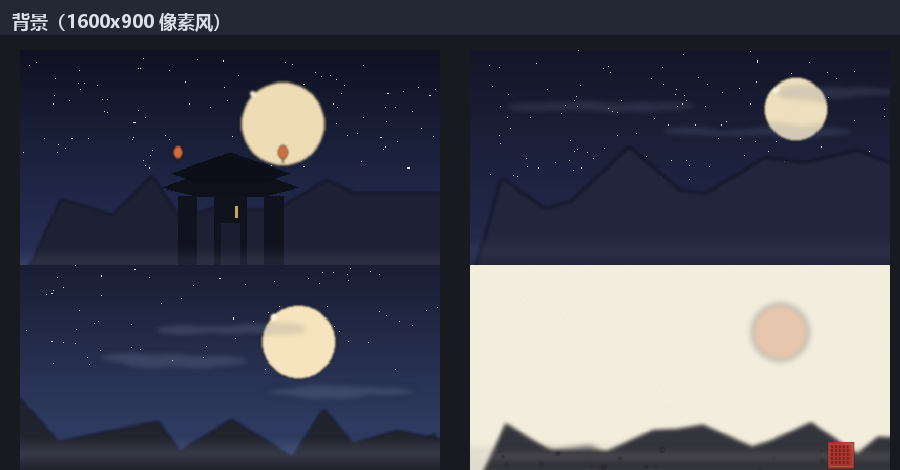
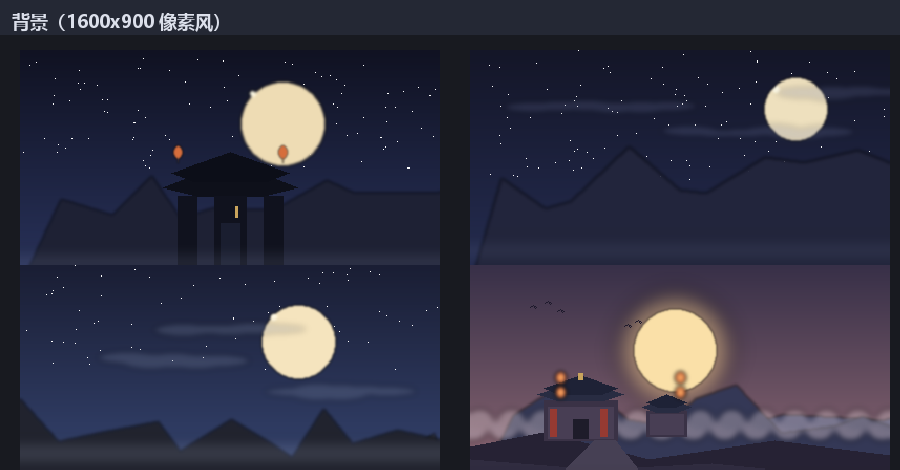
feat: demo polish - card hover detail, continue-button state, map passed dimming, turn/battle-type/hub progress display

Changed region(s): [[0.4978, 0.566, 0.9956, 1.0]]

diff --git a/Assets/Scripts/UI/GameFlow.cs b/Assets/Scripts/UI/GameFlow.cs
@@ -21,6 +21,7 @@ namespace Xianmen
         private GameObject _victoryRoot;
         private GameObject _defeatRoot;
         private GameObject _deckRoot;
+        private GameObject _cardDetailRoot;
         private Text _mapStatus;
         private Text _enemyStatus;
         private Text _playerStatus;
@@ -33,6 +34,9 @@ namespace Xianmen
         private Text _eventText;
         private Text _victoryText;
         private Text _defeatText;
+        private Text _battleTitle;
+        private Text _cardDetailTitle;
+        private Text _cardDetailDesc;
         private Transform _handRoot;
         private Transform _rewardCardRoot;
         private Transform _shopCardRoot;
@@ -42,6 +46,7 @@ namespace Xianmen
         private Button _endTurnButton;
         private Button _battleContinueButton;
         private Button _claimRelicButton;
+        private Button _continueButton;
         private Image _enemyImage;
         private readonly List<Button> _handButtons = new List<Button>();
         private readonly List<Button> _rewardButtons = new List<Button>();
@@ -91,6 +96,7 @@ namespace Xianmen
             BuildEventPanel();
             BuildEndPanels();
             BuildDeckPanel();
+            BuildCardDetailPanel();
             ShowMenu();
         }
 
@@ -125,8 +131,10 @@ namespace Xianmen
             _menuRoot = CreateVerticalPanel("MenuRoot", _canvas.transform);
             var title = CreateText("仙门问道", 72, _menuRoot.transform);
             title.rectTransform.sizeDelta = new Vector2(500, 120);
+            var subtitle = CreateText("一人一宗，对抗漫天魔气 · Demo", 22, _menuRoot.transform);
+            subtitle.rectTransform.sizeDelta = new Vector2(500, 40);
             CreateButton("开始游戏", _menuRoot.transform, OnStartPressed);
-            CreateButton("继续", _menuRoot.transform, OnContinuePressed);
+            _continueButton = CreateButton("继续", _menuRoot.transform, OnContinuePressed);
             CreateButton("退出", _menuRoot.transform, OnQuitPressed);
         }
 
@@ -172,8 +180,8 @@ namespace Xianmen
         private void BuildBattlePanel()
         {
             _battleRoot = CreateVerticalPanel("BattleRoot", _canvas.transform, 1320, 920);
-            var title = CreateText("战斗", 48, _battleRoot.transform);
-            title.rectTransform.sizeDelta = new Vector2(500, 80);
+            _battleTitle = CreateText("战斗", 48, _battleRoot.transform);
+            _battleTitle.rectTransform.sizeDelta = new Vector2(500, 80);
             var enemyGo = new GameObject("EnemyImage", typeof(RectTransform), typeof(Image));
             enemyGo.transform.SetParent(_battleRoot.transform, false);
             _enemyImage = enemyGo.GetComponent<Image>();
@@ -335,6 +343,31 @@ namespace Xianmen
             _deckRoot.SetActive(false);
         }
 
+        private void BuildCardDetailPanel()
+        {
+            _cardDetailRoot = new GameObject("CardDetail", typeof(RectTransform), typeof(Image), typeof(VerticalLayoutGroup));
+            _cardDetailRoot.transform.SetParent(_canvas.transform, false);
+            var rect = _cardDetailRoot.GetComponent<RectTransform>();
+            rect.anchorMin = new Vector2(1f, 0.5f);
+            rect.anchorMax = new Vector2(1f, 0.5f);
+            rect.pivot = new Vector2(1f, 0.5f);
+            rect.anchoredPosition = new Vector2(-30, 0);
+            rect.sizeDelta = new Vector2(380, 320);
+            var image = _cardDetailRoot.GetComponent<Image>();
+            image.color = new Color(0.08f, 0.1f, 0.14f, 0.95f);
+            var layout = _cardDetailRoot.GetComponent<VerticalLayoutGroup>();
+            layout.childAlignment = TextAnchor.UpperCenter;
+            layout.childControlWidth = true;
+            layout.childControlHeight = false;
+            layout.spacing = 10;
+            layout.padding = new RectOffset(16, 16, 16, 16);
+            _cardDetailTitle = CreateText("", 28, _cardDetailRoot.transform);
+            _cardDetailTitle.alignment = TextAnchor.MiddleCenter;
+            _cardDetailDesc = CreateText("", 19, _cardDetailRoot.transform);
+            _cardDetailDesc.alignment = TextAnchor.UpperLeft;
+            _cardDetailRoot.SetActive(false);
+        }
+
         private GameObject CreateVerticalPanel(string name, Transform parent, float width = 520, float height = 480)
         {
             var go = new GameObject(name, typeof(RectTransform), typeof(VerticalLayoutGroup));
@@ -388,6 +421,10 @@ namespace Xianmen
         {
             HideAllPanels();
             if (_menuRoot != null) _menuRoot.SetActive(true);
+            if (_continueButton != null)
+            {
+                _continueButton.interactable = GameState.HasSave();
+            }
         }
 
         private void ShowMap()
@@ -405,6 +442,7 @@ namespace Xianmen
                 var node = GameState.MapNodes[i];
                 var image = _mapNodeImages[i];
                 var sprite = SpriteLibrary.Node(node.type);
+                var passed = i < GameState.CurrentNodeIndex;
                 if (sprite != null)
                 {
                     image.sprite = sprite;
@@ -418,6 +456,12 @@ namespace Xianmen
                     image.color = i == GameState.CurrentNodeIndex
                         ? new Color(1f, 0.85f, 0.3f, 1f)
                         : NodeColor(node.type);
+                }
+                if (passed)
+                {
+                    var dimmed = image.color;
+                    dimmed.a = 0.45f;
+                    image.color = dimmed;
                 }
             }
             var current = GameState.CurrentNode;
@@ -472,6 +516,7 @@ namespace Xianmen
             if (_eventRoot != null) _eventRoot.SetActive(false);
             if (_victoryRoot != null) _victoryRoot.SetActive(false);
             if (_defeatRoot != null) _defeatRoot.SetActive(false);
+            if (_cardDetailRoot != null) _cardDetailRoot.SetActive(false);
         }
 
         private void OnStartPressed()
@@ -517,6 +562,10 @@ namespace Xianmen
         {
             var node = GameState.CurrentNode;
             if (node == null) return;
+            if (_battleTitle != null)
+            {
+                _battleTitle.text = node.type == "elite" ? "精英战" : (node.type == "boss" ? "Boss 战" : "战斗");
+            }
             var enemyId = PickEnemyId(node.type);
             var enemy = DataLoader.GetEnemy(enemyId);
             if (enemy == null)
@@ -564,13 +613,14 @@ namespace Xianmen
                 FormatBuffs(_battleState.Enemy)
             );
             _playerStatus.text = string.Format(
-                "掌门\nHP {0}/{1}  罡气 {2}  灵力 {3}\n牌库 {4}  弃牌 {5}{6}",
+                "掌门 · 回合 {6}\nHP {0}/{1}  罡气 {2}  灵力 {3}\n牌库 {4}  弃牌 {5}{7}",
                 Mathf.Max(0, _battleState.Player.CurrentHp),
                 _battleState.Player.MaxHp,
                 _battleState.Player.Block,
                 _battleState.Energy,
                 _battleState.DrawPile.Count,
                 _battleState.DiscardPile.Count,
+                _battleState.TurnCount,
                 FormatBuffs(_battleState.Player)
             );
             RebuildHand();
@@ -613,8 +663,45 @@ namespace Xianmen
                 text.fontSize = 17;
                 text.alignment = TextAnchor.MiddleCenter;
                 ApplyCardIcon(button, GameState.BaseCardId(entry));
+                WireHover(button, card, upgraded);
                 _handButtons.Add(button);
             }
+        }
+
+        private void WireHover(Button button, CardData card, bool upgraded, string extra = "")
+        {
+            var trigger = button.gameObject.GetComponent<EventTrigger>();
+            if (trigger == null)
+            {
+                trigger = button.gameObject.AddComponent<EventTrigger>();
+            }
+            var enter = new EventTrigger.Entry { eventID = EventTriggerType.PointerEnter };
+            enter.callback.AddListener(_ => ShowCardDetail(card, upgraded, extra));
+            var exit = new EventTrigger.Entry { eventID = EventTriggerType.PointerExit };
+            exit.callback.AddListener(_ => HideCardDetail());
+            trigger.triggers.Add(enter);
+            trigger.triggers.Add(exit);
+        }
+
+        private void ShowCardDetail(CardData card, bool upgraded, string extra)
+        {
+            if (card == null || _cardDetailRoot == null) return;
+            _cardDetailTitle.text = string.Format(
+                "{0}（{1}费 · {2}）{3}",
+                card.name,
+                card.cost,
+                RarityName(card.rarity),
+                upgraded ? " ✦已祭炼" : ""
+            );
+            _cardDetailDesc.text = (extra.Length > 0 ? extra + "\n\n" : "")
+                + (upgraded ? card.desc_up : card.desc)
+                + "\n\n" + card.flavor;
+            _cardDetailRoot.SetActive(true);
+        }
+
+        private void HideCardDetail()
+        {
+            if (_cardDetailRoot != null) _cardDetailRoot.SetActive(false);
         }
 
         private void ApplyCardIcon(Button button, string cardId)
@@ -721,6 +808,7 @@ namespace Xianmen
                 var label = card != null ? string.Format("{0}（{1}）", card.name, RarityName(card.rarity)) : "?";
                 var button = CreateButton(label, _rewardCardRoot, () => OnRewardCardPressed(index));
                 ApplyCardIcon(button, _pendingCardOffers[index]);
+                WireHover(button, card, false);
                 _rewardButtons.Add(button);
             }
         }
@@ -814,11 +902,12 @@ namespace Xianmen
         private void RefreshHubStatus()
         {
             _hubStatus.text = string.Format(
-                "灵石 {0}  药材 {1}  生命 {2}/{3}",
+                "灵石 {0}  药材 {1}  生命 {2}/{3}\n已走完节点 {4} / 20",
                 GameState.SpiritStone,
                 GameState.Herb,
                 GameState.CurrentHp,
-                GameState.MaxHp
+                GameState.MaxHp,
+                GameState.CurrentNodeIndex + 1
             );
             _claimRelicButton.gameObject.SetActive(GameState.PendingRelics.Count > 0);
             if (GameState.PendingRelics.Count > 0)
@@ -913,6 +1002,7 @@ namespace Xianmen
                     : "?";
                 var button = CreateButton(label, _shopCardRoot, () => OnShopCardPressed(index));
                 ApplyCardIcon(button, _shopOffers[index]);
+                WireHover(button, card, false, "价格 " + price + " 灵石");
                 _shopButtons.Add(button);
             }
         }

diff --git a/Assets/ArtTest/pixel/README.md b/Assets/ArtTest/pixel/README.md
@@ -1,0 +1,145 @@
+# 《仙门问道》像素美术素材清单
+
+> 版本：v1.0 · 全部素材为代码绘制的透明底 PNG，无第三方授权负担，可直接商用。
+
+## 目录结构
+
+```text
+pixel/
+├─ enemies/      怪物立绘 16 张（288×288）
+├─ icons/        卡面图标 60 张（128×128，文件名 = cards.json 的 id）
+├─ relics/       遗物图标 15 张（128×128）
+├─ frames/       卡框 3 张（200×280，按稀有度）
+├─ nodes/        地图节点图标 5 张（96×96）
+├─ intents/      敌人意图图标 5 张（128×128）
+├─ ui/           UI 组件（按钮/面板/血条/资源图标/卡背/徽记）
+└─ backgrounds/  背景 4 张（1600×900）
+```
+
+## 怪物（16）
+
+- `ni_zhao_jing` 泥沼精
+- `yao_lang` 妖狼
+- `shanzei_lou_luo` 山贼喽啰
+- `shanzei_tou_mu` 山贼头目
+- `shi_kui` 尸傀
+- `du_zhu_yao` 毒蛛妖
+- `hei_xiong_jing` 黑熊精
+- `shi_kui_jiang_jun` 尸傀将军
+- `huo_sha_mo` 火煞魔
+- `shuang_shou_jiao` 双首蛟
+- `shu_yao` 树妖
+- `shui_gui` 水鬼
+- `du_yan_shan_yao` 独眼山妖
+- `shi_xiang_kui_lei` 石像傀儡
+- `ying_mo` 影魔
+- `mo_zun` 魔尊
+
+## 卡面图标（60）
+
+- `yujian_shu` 御剑术
+- `lianhuan_jian` 连环剑
+- `tuci` 突刺
+- `zhanfeng` 斩风
+- `pojia_jian` 破甲剑
+- `dusha_zhang` 毒煞掌
+- `jianqi` 剑气
+- `pishan_jian` 劈山剑
+- `zhendi_quan` 震地拳
+- `lieyan_zhang` 烈焰掌
+- `zhuihun_ci` 追魂刺
+- `hengsao` 横扫
+- `suigu_ji` 碎骨击
+- `yufeng_jian` 御风剑
+- `gangqi_huti` 罡气护体
+- `tiebushan` 铁布衫
+- `panshi_gong` 磐石功
+- `jinzhong_zhao` 金钟罩
+- `xieli` 卸力
+- `huxin_jing` 护心镜
+- `guixi_gong` 龟息功
+- `tiangang_zhao` 天罡罩
+- `dangjian_jue` 挡剑诀
+- `tuna_shu` 吐纳术
+- `ningshen` 凝神
+- `juqi` 聚气
+- `jingxin_jue` 静心诀
+- `jixing_bu` 疾行步
+- `liaoshang_shu` 疗伤术
+- `yinqi_ru_ti` 引气入体
+- `wanjian_jue` 万剑诀
+- `leiting_jian` 雷霆剑
+- `youming_guizhao` 幽冥鬼爪
+- `xuesha_zhan` 血煞斩
+- `pojun` 破军
+- `yulei_shu` 御雷术
+- `fentian_zhang` 焚天掌
+- `jianxin_tongming` 剑心通明
+- `yushou_jue` 御兽诀
+- `tianlei_zhengfa` 天雷正法
+- `taiji_huti` 太极护体
+- `jingang_buhuai` 金刚不坏
+- `luohan_gong` 罗汉功
+- `fanshi_gangqi` 反噬罡气
+- `tongpi_tiegu` 铜皮铁骨
+- `linggui_ke` 灵龟壳
+- `tiangang_bu` 天罡步
+- `dahuandan` 大还丹
+- `hunyuan_yiqi` 混元一气
+- `yuqi_feixing` 御气飞行
+- `yujian_feixing` 御剑飞行
+- `mieshi_jianyi` 灭世剑意
+- `wandu_shixin` 万毒噬心
+- `tiangang_shengti` 天罡圣体
+- `qiankun_yizhi` 乾坤一掷
+- `yiqi_hua_sanqing` 一气化三清
+- `xiantian_gangqi` 先天罡气
+- `xisui_fagu` 洗髓伐骨
+- `jianpo_xukong` 剑破虚空
+- `lingxi_yizhi` 灵犀一指
+
+## 遗物图标（15）
+
+- `zongmen_zhangce` 宗门账册
+- `lingshi_kuangmai` 灵石矿脉
+- `lingyao_yuan` 灵药园
+- `lianqi_ge` 炼器阁
+- `shoushan_dazhen` 守山大阵
+- `fangshi_ling` 坊市令
+- `huichun_cao` 回春草
+- `xianghuo_qian` 香火钱
+- `cangbao_tu` 藏宝图
+- `lingshi_che` 灵石车
+- `lingquan` 灵泉
+- `yanwu_chang` 演武场
+- `juling_zhen` 聚灵阵
+- `tianji_pan` 天机盘
+- `zongmen_jinku` 宗门金库
+
+## 卡框（3）
+- `frame_basic.png` 凡阶（钢蓝）
+- `frame_advanced.png` 灵阶（紫）
+- `frame_rare.png` 仙阶（金）
+
+## 地图节点（5）
+- `node_battle.png` 战斗 · `node_elite.png` 精英 · `node_event.png` 奇遇 · `node_rest.png` 打坐 · `node_boss.png` Boss
+
+## 意图图标（5）
+- `intent_attack.png` 攻击 · `intent_heavy.png` 重击 · `intent_block.png` 防御 · `intent_buff.png` 增益 · `intent_debuff.png` 减益
+
+## UI 组件
+- `btn_normal.png / btn_hover.png / btn_pressed.png / btn_disabled.png` 按钮四态（120×40）
+- `panel_frame.png` 面板（9-slice，边框 8px，四角金色装饰）
+- `bar_track.png` 血条轨道 + `bar_fill_hp/energy/block/enemy_hp.png` 各色填充（按比例截取宽度）
+- `res_spirit_stone.png` 灵石 · `res_herb.png` 药材（128×128）
+- `card_back.png` 卡背（200×280）
+- `emblem_title.png` 标题徽记（192×192）
+
+## 背景（4）
+- `bg_menu.png` 主菜单（夜月山门）· `bg_map.png` 地图（星空远山）· `bg_battle.png` 战斗（暮色仙山）· `bg_hub.png` 宗门 Hub（夕照宗门）
+
+## 接入建议
+- 图标/立绘均为透明底 PNG，Unity 中 `Sprite` 直接导入，`Filter Mode = Point`（否则会模糊）。
+- 面板用 9-slice：`Border` 设为 8px。
+- 血条：轨道底图固定，填充图用 `Image.Type = Filled`（Horizontal）按百分比显示。
+- 卡名/描述文字不用烧进图里，用字体渲染（推荐霞鹜文楷，OFL 免费商用）。

diff --git a/README.md b/README.md
@@ -28,6 +28,7 @@
 - [x] Hub 牌组查看
 - [x] 美术管线：SpriteLibrary（Resources/Art 自动加载，缺图回退占位）
 - [x] 战斗逻辑补全：开始遗物（守山大阵/演武场）、尸傀机制、手牌灵力置灰、战斗日志
+- [x] Demo 体验完善：卡牌悬停详情、继续按钮按存档置灰、地图已过节点变暗、回合/战斗类型/进度显示
 - [ ] 剧情文案全量录入
 - [ ] 美术替换
 - [ ] Windows 导出
